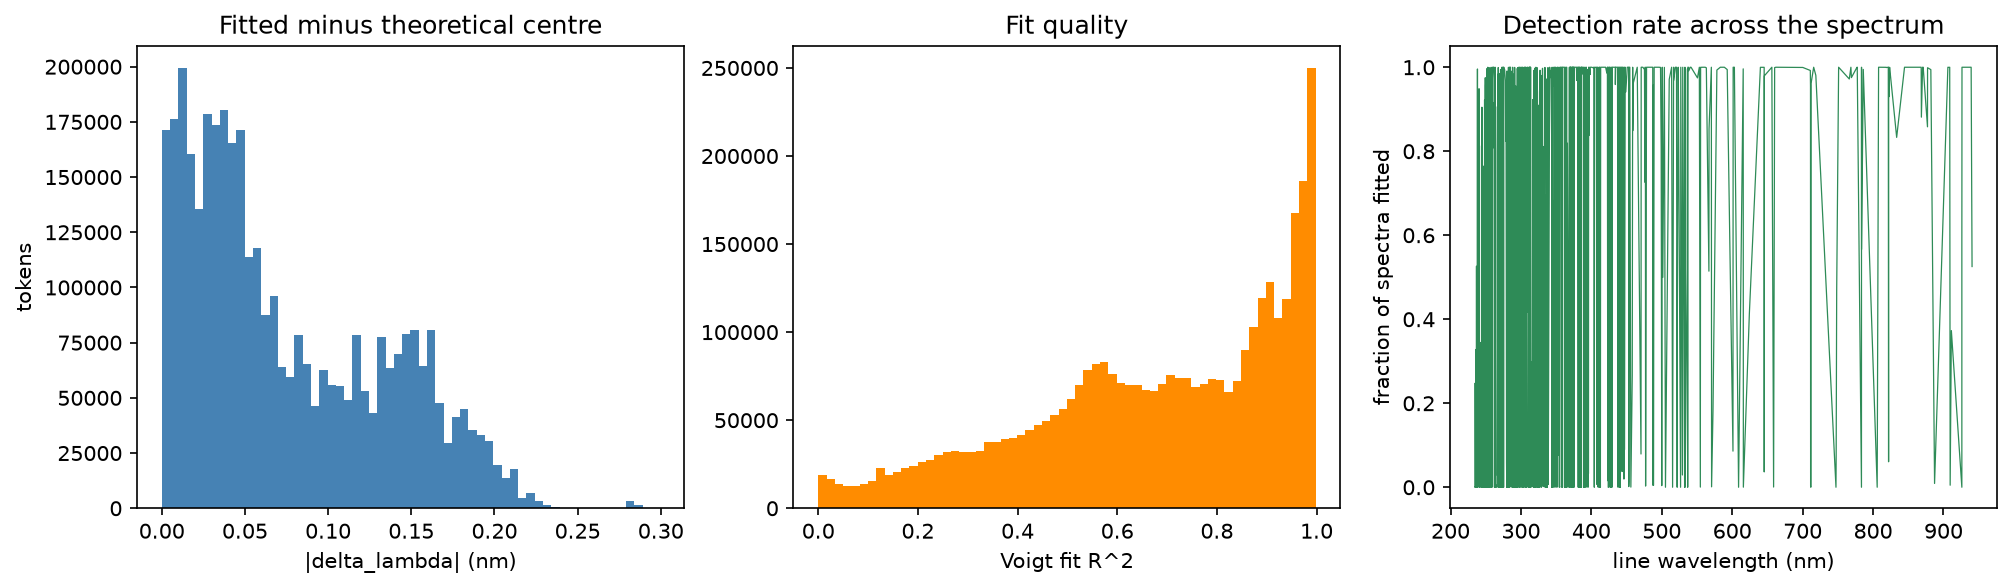
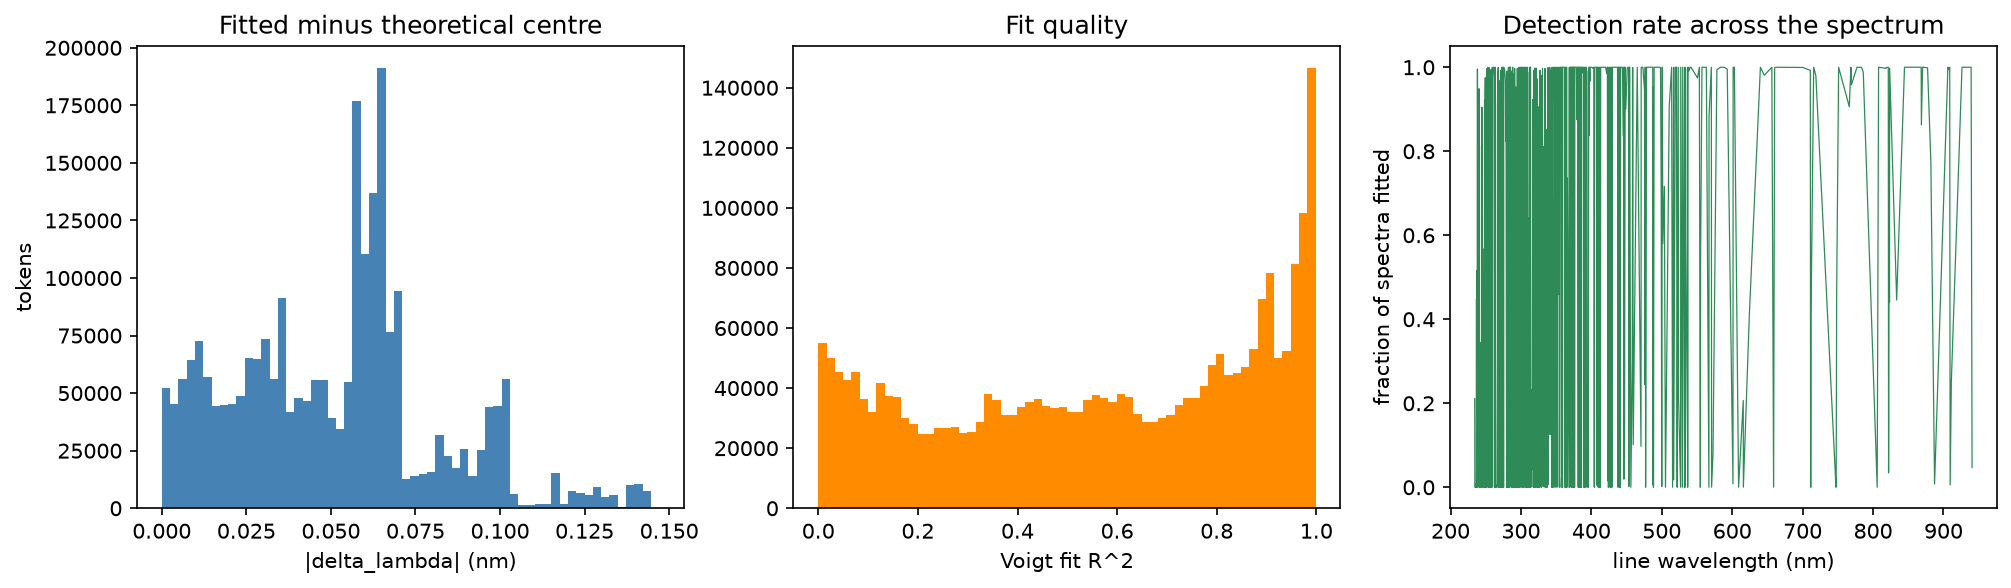
Implement line separation and fitting enhancements; added min_separation_pixels to configuration, improved resolvable line selection in LineDictionary, and updated fitting functions to constrain centroid shifts during spectral fitting.

diff --git a/src/libs2026/tokens.py b/src/libs2026/tokens.py
@@ -129,6 +129,7 @@ def fit_line(
     out: np.ndarray,
     min_snr: float = 3.0,
     maxfev: int = 600,
+    max_shift_pixels: float = 1.5,
 ) -> None:
     """Fit one Voigt profile into ``out`` (length ``N_SAMPLE``)."""
     out[:] = 0.0
@@ -154,14 +155,25 @@ def fit_line(
     if noise > 0 and y_max < min_snr * noise:
         return
 
-    lb = [float(x[0]), 0.0, 1e-4, 1e-4]
-    ub = [float(x[-1]), y_max * 100.0, 0.5, 0.05]
+    # Pin the centroid near the theoretical wavelength so the fit cannot claim
+    # a neighbouring transition as this token's line.
+    step = float(np.median(np.abs(np.diff(x)))) if x.size > 1 else 0.0
+    shift = max_shift_pixels * step if step > 0 else float(x[-1] - x[0])
+    lo_x = max(float(x[0]), centre_nm - shift)
+    hi_x = min(float(x[-1]), centre_nm + shift)
+    if not hi_x > lo_x:
+        lo_x, hi_x = float(x[0]), float(x[-1])
+
+    x0_init = float(x[int(np.argmax(y))])
+    x0_init = min(max(x0_init, lo_x), hi_x)
+    lb = [lo_x, 0.0, 1e-4, 1e-4]
+    ub = [hi_x, y_max * 100.0, 0.5, 0.05]
     try:
         with warnings.catch_warnings():
             warnings.simplefilter("ignore", OptimizeWarning)
             popt, _ = curve_fit(
                 voigt, x, y,
-                p0=[float(x[int(np.argmax(y))]), y_max, gamma_init, sigma_init],
+                p0=[x0_init, y_max, gamma_init, sigma_init],
                 bounds=(lb, ub),
                 maxfev=maxfev, ftol=1e-6, xtol=1e-6,
             )
@@ -201,6 +213,7 @@ def fit_spectra(
     r2_min: float,
     min_snr: float = 3.0,
     maxfev: int = 600,
+    max_shift_pixels: float = 1.5,
 ) -> np.ndarray:
     """Fit every line in every row; returns ``(n_rows, n_lines, N_SAMPLE)``."""
     n_rows, n_lines = spectra.shape[0], len(bounds)
@@ -210,7 +223,8 @@ def fit_spectra(
         spec = spectra[r]
         for j, (lo, hi) in enumerate(bounds):
             fit_line(spec, wavelength, lo, hi, float(centres[j]),
-                     gamma_init, sigma_init, r2_min, scratch, min_snr, maxfev)
+                     gamma_init, sigma_init, r2_min, scratch, min_snr, maxfev,
+                     max_shift_pixels)
             out[r, j] = scratch
     return out
 
@@ -238,6 +252,13 @@ class FitConfig:
     # physically honest answer and the bulk of the speed-up.
     min_snr: float = 3.0
     maxfev: int = 600
+    # How far the fitted centroid may drift from the theoretical wavelength,
+    # in detector pixels. The window has to stay wide enough to constrain four
+    # Voigt parameters, but an unconstrained centroid then walks to whichever
+    # neighbouring line is strongest: 23% of fits were landing at the window
+    # edge. Bounding the centroid keeps the token pinned to its own transition
+    # while leaving the window wide enough to fit.
+    max_shift_pixels: float = 1.5
 
 
 def fit_config_from_config(cfg: Config) -> FitConfig:
@@ -261,7 +282,7 @@ def line_dictionary_from_config(cfg: Config, verbose: bool = True) -> LineDictio
             f"Line database not found at {db_path}. Set tokens.db_path in the config."
         )
     wavelength = load_wavelength(cfg)
-    return build_line_dictionary(
+    dictionary = build_line_dictionary(
         db_path,
         elements=tuple(tok.get("elements", STEEL_ELEMENTS)),
         wl_min=float(wavelength.min()),
@@ -277,6 +298,15 @@ def line_dictionary_from_config(cfg: Config, verbose: bool = True) -> LineDictio
         cache_dir=cfg.cache_dir,
         verbose=verbose,
     )
+    n_pixels = float(tok.get("min_separation_pixels", 0.0))
+    if n_pixels > 0:
+        before = dictionary.n_lines
+        bounds = tuple(cfg["data"].get("channel_bounds", DEFAULT_CHANNEL_BOUNDS))
+        dictionary = dictionary.resolvable(wavelength, bounds, n_pixels)
+        if verbose:
+            print(f"resolvable lines: {dictionary.n_lines} / {before} "
+                  f"(>= {n_pixels:g} pixels apart)")
+    return dictionary
 
 
 class TokenSet:
@@ -354,7 +384,7 @@ def _tokenize_sample(cfg: Config, sample_id: str, pre: Preprocessor, shot_bin: i
     return fit_spectra(
         np.asarray(shots, dtype=np.float32), wavelength, bounds, centres,
         fit_cfg.gamma_init, fit_cfg.sigma_init, fit_cfg.r2_min,
-        fit_cfg.min_snr, fit_cfg.maxfev,
+        fit_cfg.min_snr, fit_cfg.maxfev, fit_cfg.max_shift_pixels,
     )
 
 

diff --git a/src/libs2026/lines_db.py b/src/libs2026/lines_db.py
@@ -271,8 +271,10 @@ class LineDictionary:
         """Keep the ``n`` strongest lines, still ordered by wavelength."""
         if n >= self.n_lines:
             return self
-        keep = np.argsort(self.theoretical_intensity)[::-1][:n]
-        keep = np.sort(keep)
+        return self._take(np.argsort(self.theoretical_intensity)[::-1][:n])
+
+    def _take(self, keep: np.ndarray) -> LineDictionary:
+        keep = np.sort(np.asarray(keep, dtype=int))
         return LineDictionary(
             wavelength=self.wavelength[keep],
             element=self.element[keep],
@@ -282,6 +284,50 @@ class LineDictionary:
             db_path=self.db_path,
             config_hash=self.config_hash,
         )
+
+    def resolvable(
+        self,
+        wavelength_axis: np.ndarray,
+        channel_bounds: tuple[int, ...],
+        n_pixels: float = 2.0,
+    ) -> LineDictionary:
+        """Drop lines this spectrometer cannot separate from a stronger neighbour.
+
+        The line list is far finer than the instrument: median spacing is about
+        0.10 nm against a 0.08-0.18 nm resolution limit, so most theoretical
+        lines arrive blended into a single observed peak. Fitting each one
+        separately does not recover them, it just hands the same peak to several
+        tokens under different labels, which makes the static physics channels
+        describe the wrong transition.
+
+        Within each blended group only the theoretically strongest line is kept,
+        since that is the one dominating the peak the fit will actually find.
+        """
+        order = np.argsort(self.wavelength)
+        wl = self.wavelength[order]
+        intensity = self.theoretical_intensity[order]
+
+        # Local dispersion per channel; a line counts as resolvable if any
+        # channel covering it samples finely enough.
+        steps = []
+        for a, b in zip(channel_bounds[:-1], channel_bounds[1:]):
+            seg = wavelength_axis[a:b]
+            steps.append((seg.min(), seg.max(), float(np.median(np.diff(seg)))))
+
+        def limit(value: float) -> float:
+            covering = [s for lo, hi, s in steps if lo <= value <= hi]
+            return n_pixels * (min(covering) if covering else max(s for _, _, s in steps))
+
+        keep_sorted: list[int] = []
+        group: list[int] = [0]
+        for i in range(1, len(wl)):
+            if wl[i] - wl[group[-1]] < limit(float(wl[i])):
+                group.append(i)
+            else:
+                keep_sorted.append(max(group, key=lambda j: intensity[j]))
+                group = [i]
+        keep_sorted.append(max(group, key=lambda j: intensity[j]))
+        return self._take(order[np.array(keep_sorted, dtype=int)])
 
     def save(self, path: Path) -> None:
         path.parent.mkdir(parents=True, exist_ok=True)

diff --git a/scripts/12_build_tokens.py b/scripts/12_build_tokens.py
@@ -59,7 +59,7 @@ def _fit_against(cfg, dictionary, spectra, fit_cfg):
     features = fit_spectra(
         spectra, wavelength, resolved, dictionary.wavelength[keep],
         fit_cfg.gamma_init, fit_cfg.sigma_init, fit_cfg.r2_min,
-        fit_cfg.min_snr, fit_cfg.maxfev,
+        fit_cfg.min_snr, fit_cfg.maxfev, fit_cfg.max_shift_pixels,
     )
     return features, keep
 
